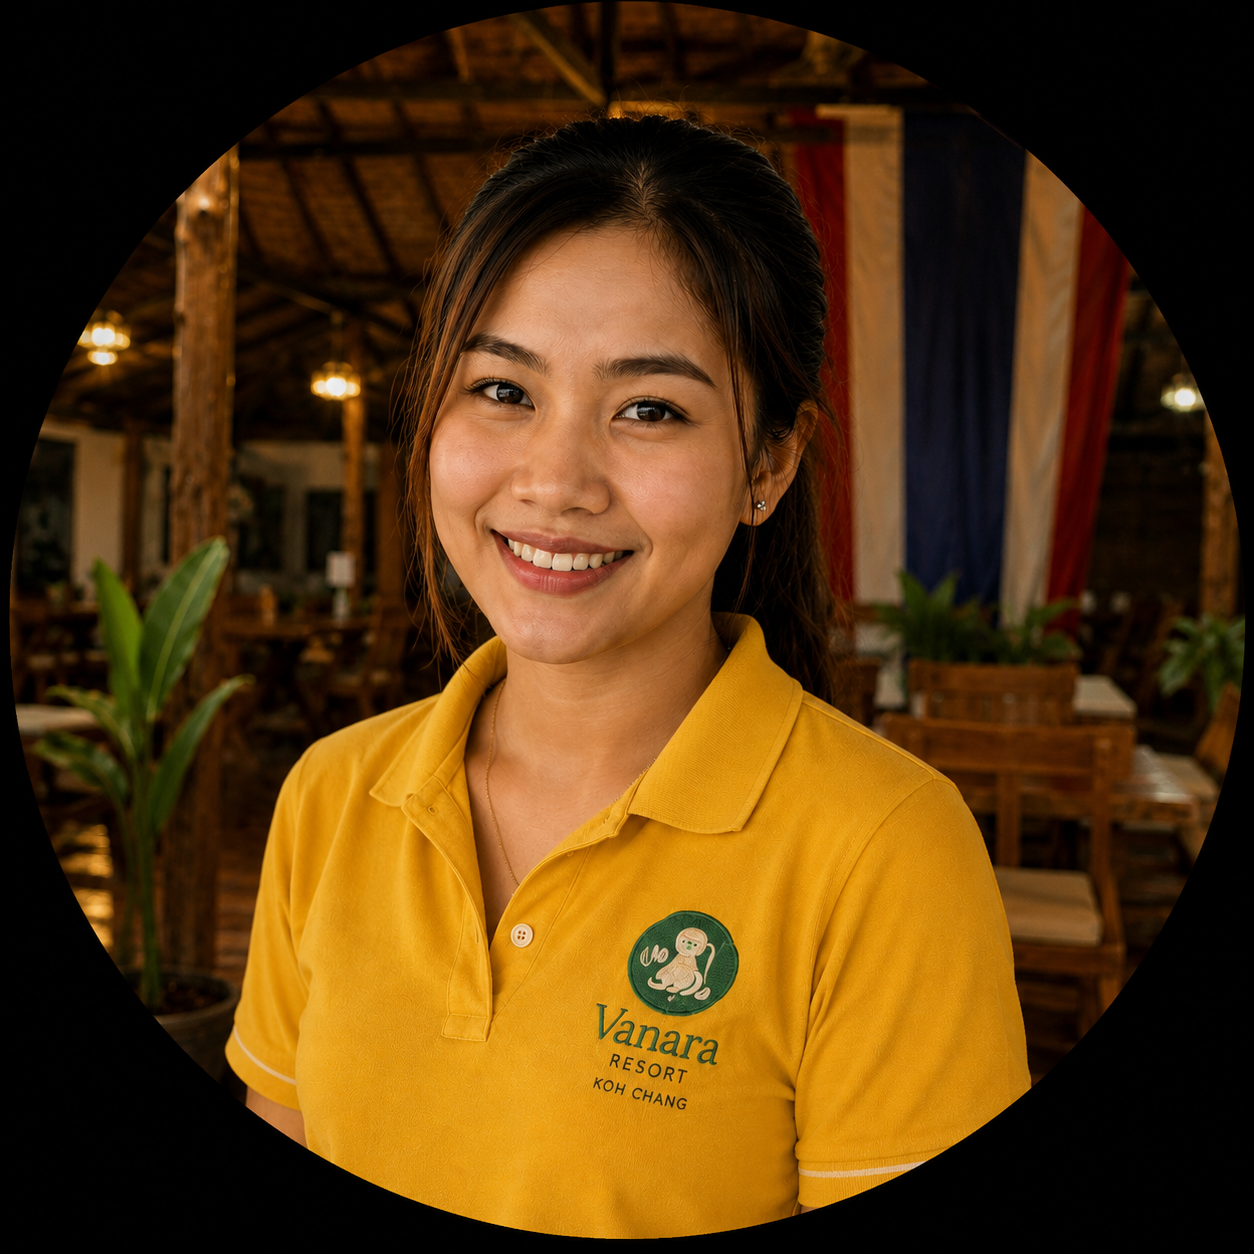
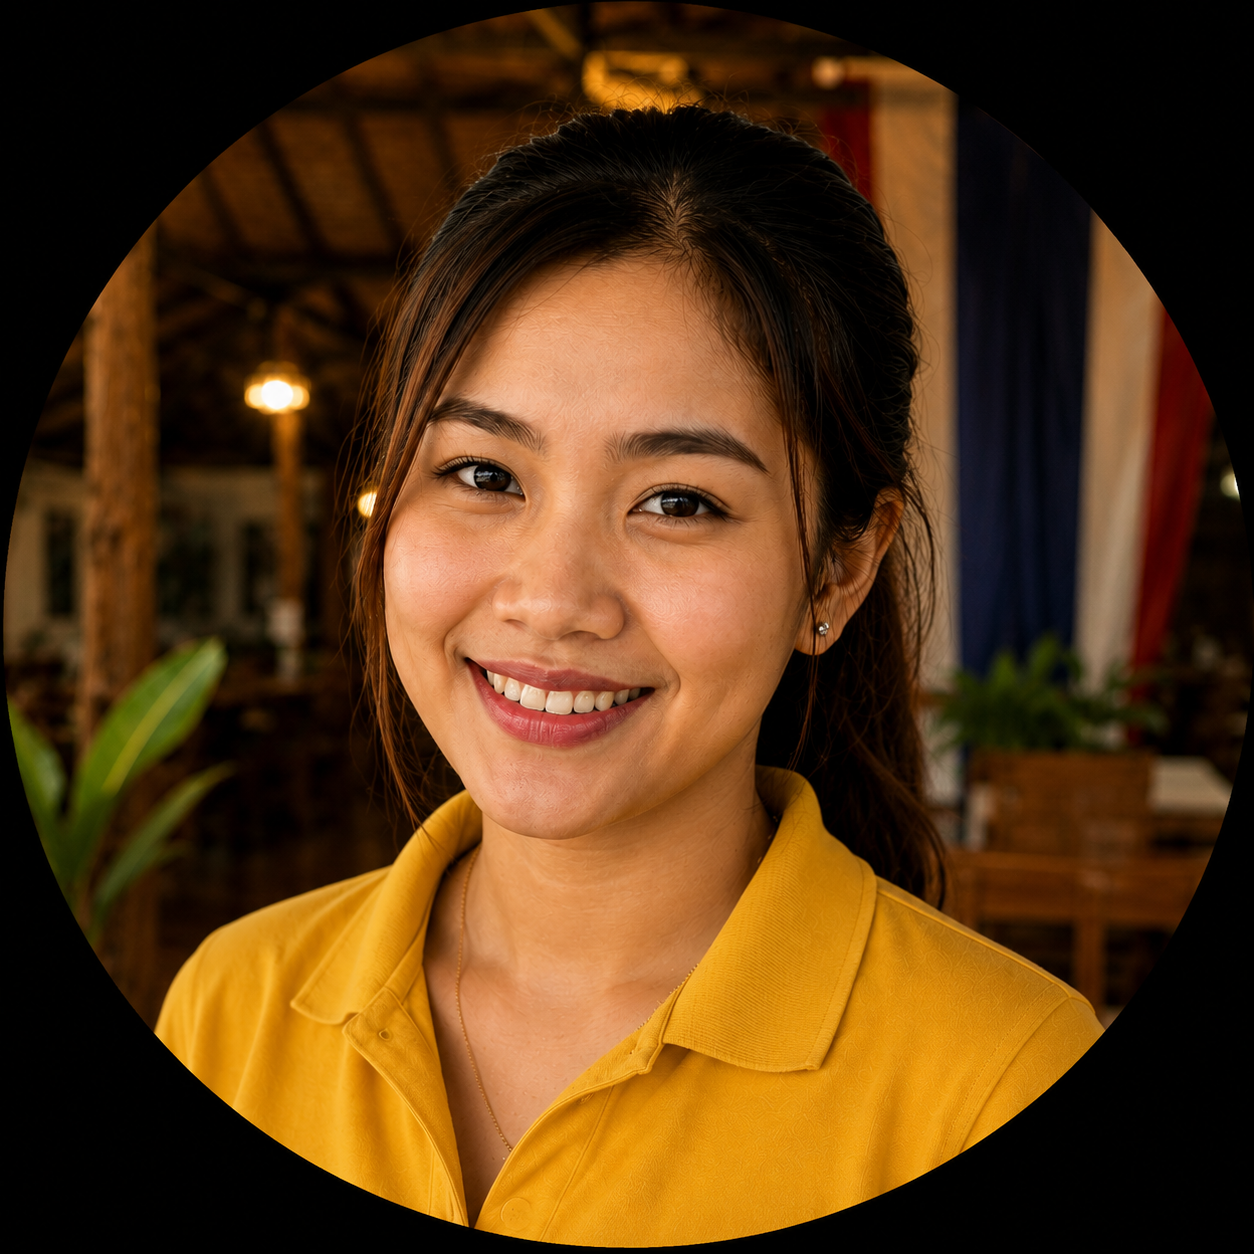
...

diff --git a/index.html b/index.html
@@ -5272,7 +5272,7 @@ body {
 </article>
 </div>
 <aside aria-labelledby="ek-final-title" class="ek-final ek-reveal ek-delay-2">
-<img alt="Scenic road through Koh Chang" loading="lazy" src="/assets/13-property.jpg"/>
+<img alt="Scenic road through Koh Chang" loading="lazy" src="/assets/img/13-property.png"/>
 <div class="ek-final__content">
 <div class="ek-final__eyebrow">
             Follow the Island